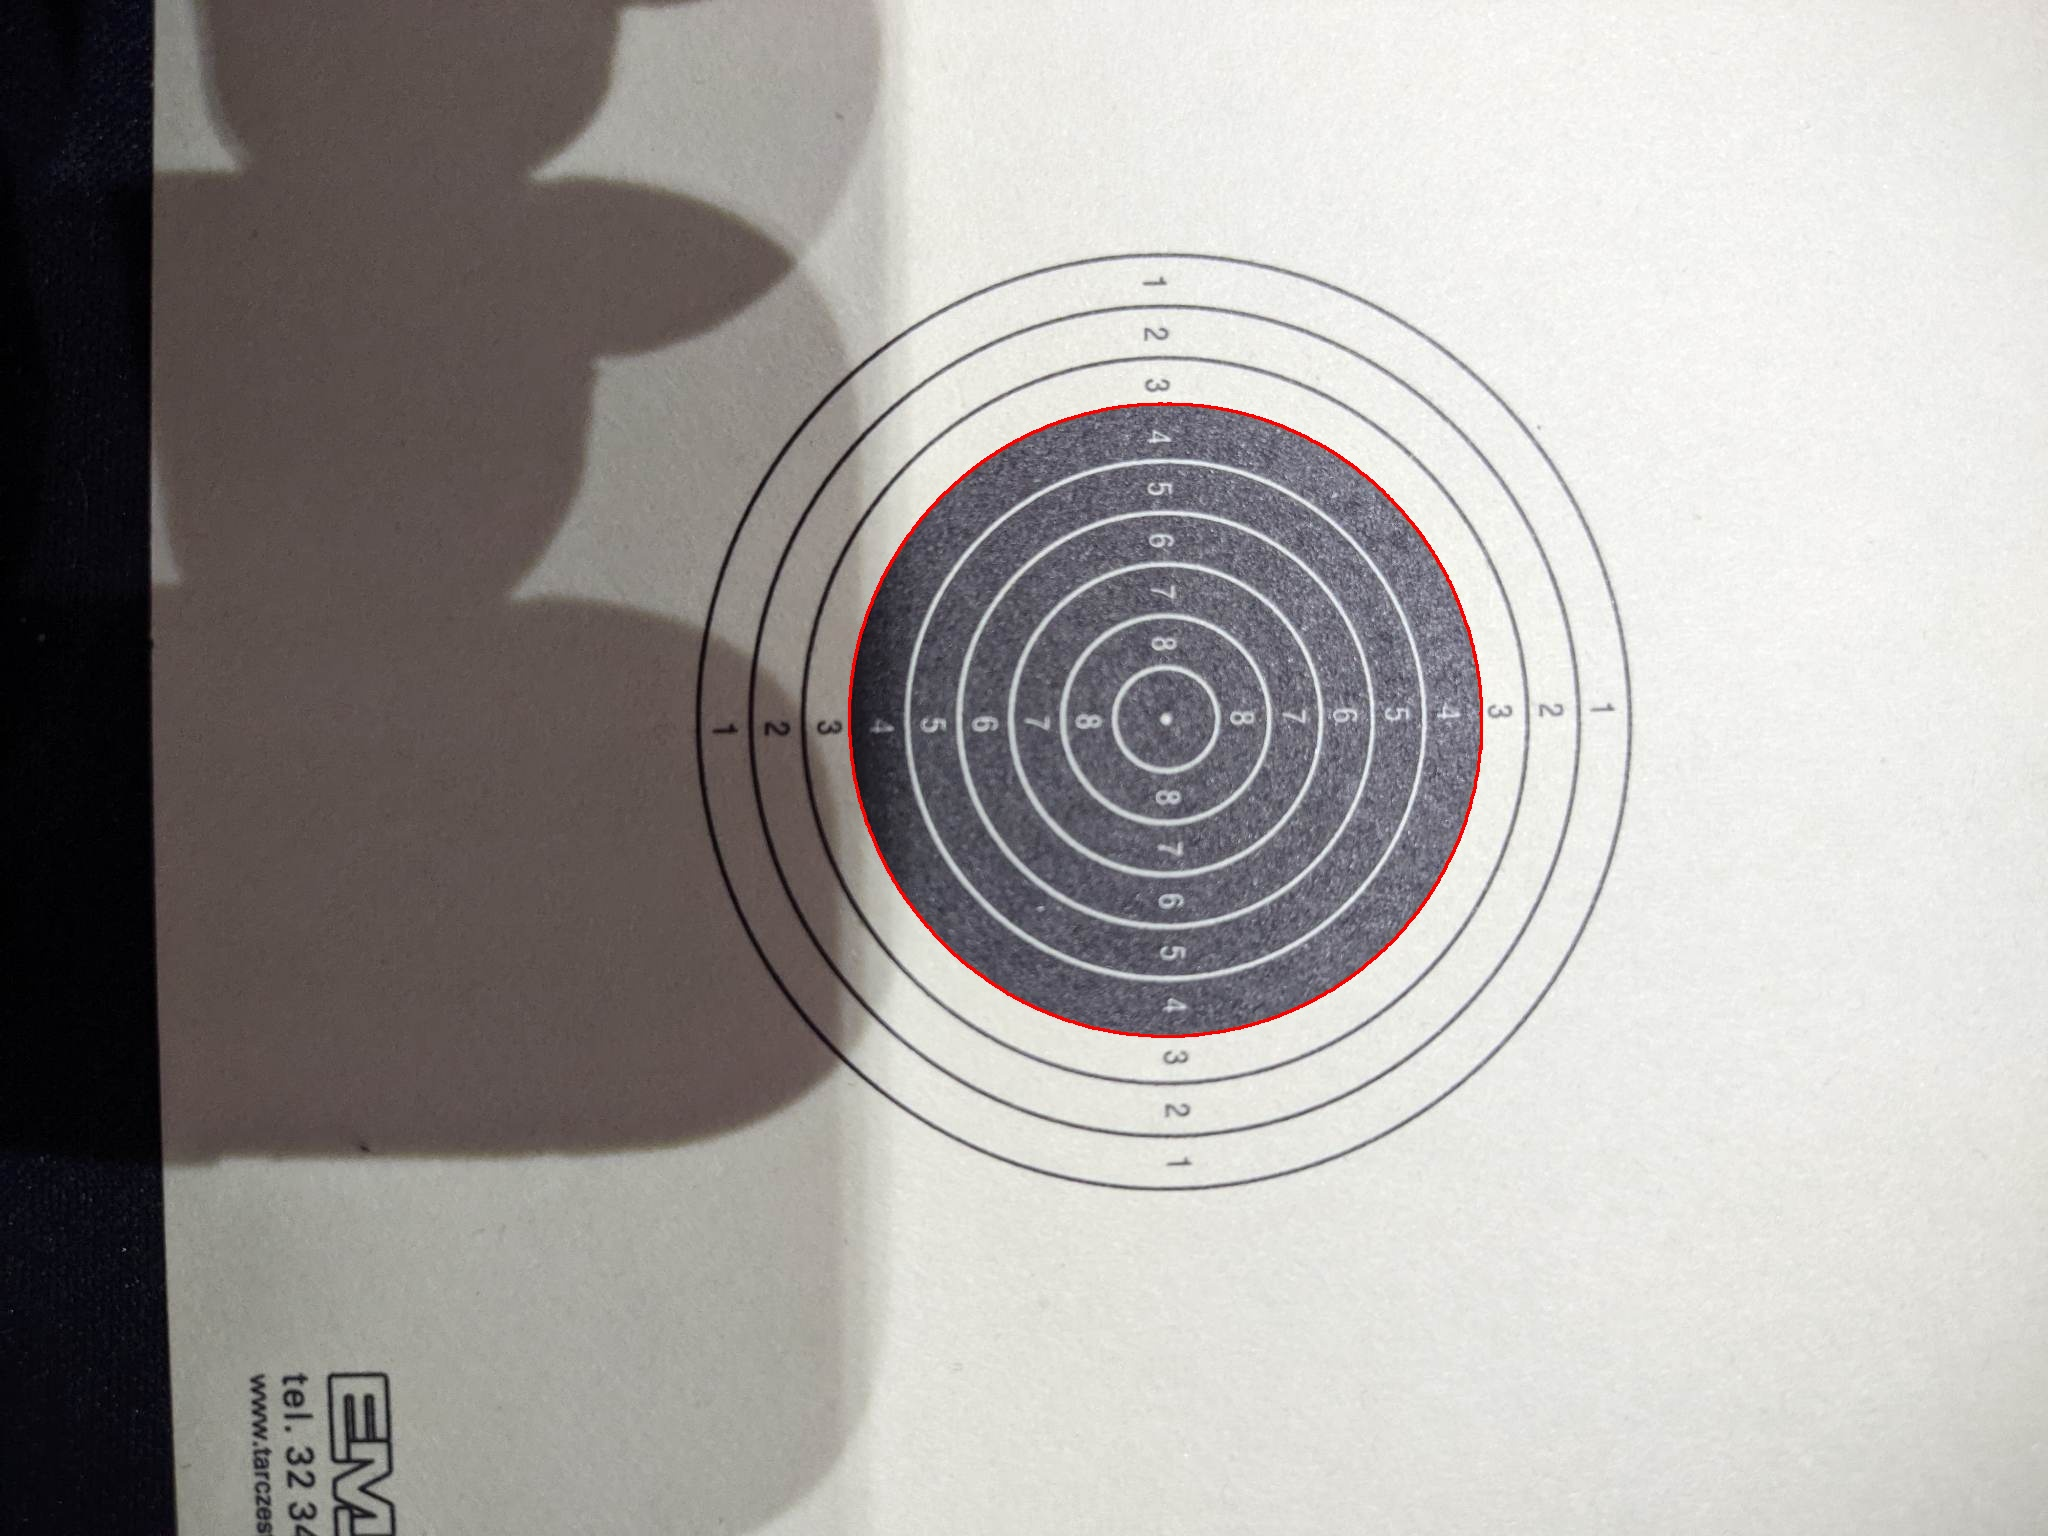
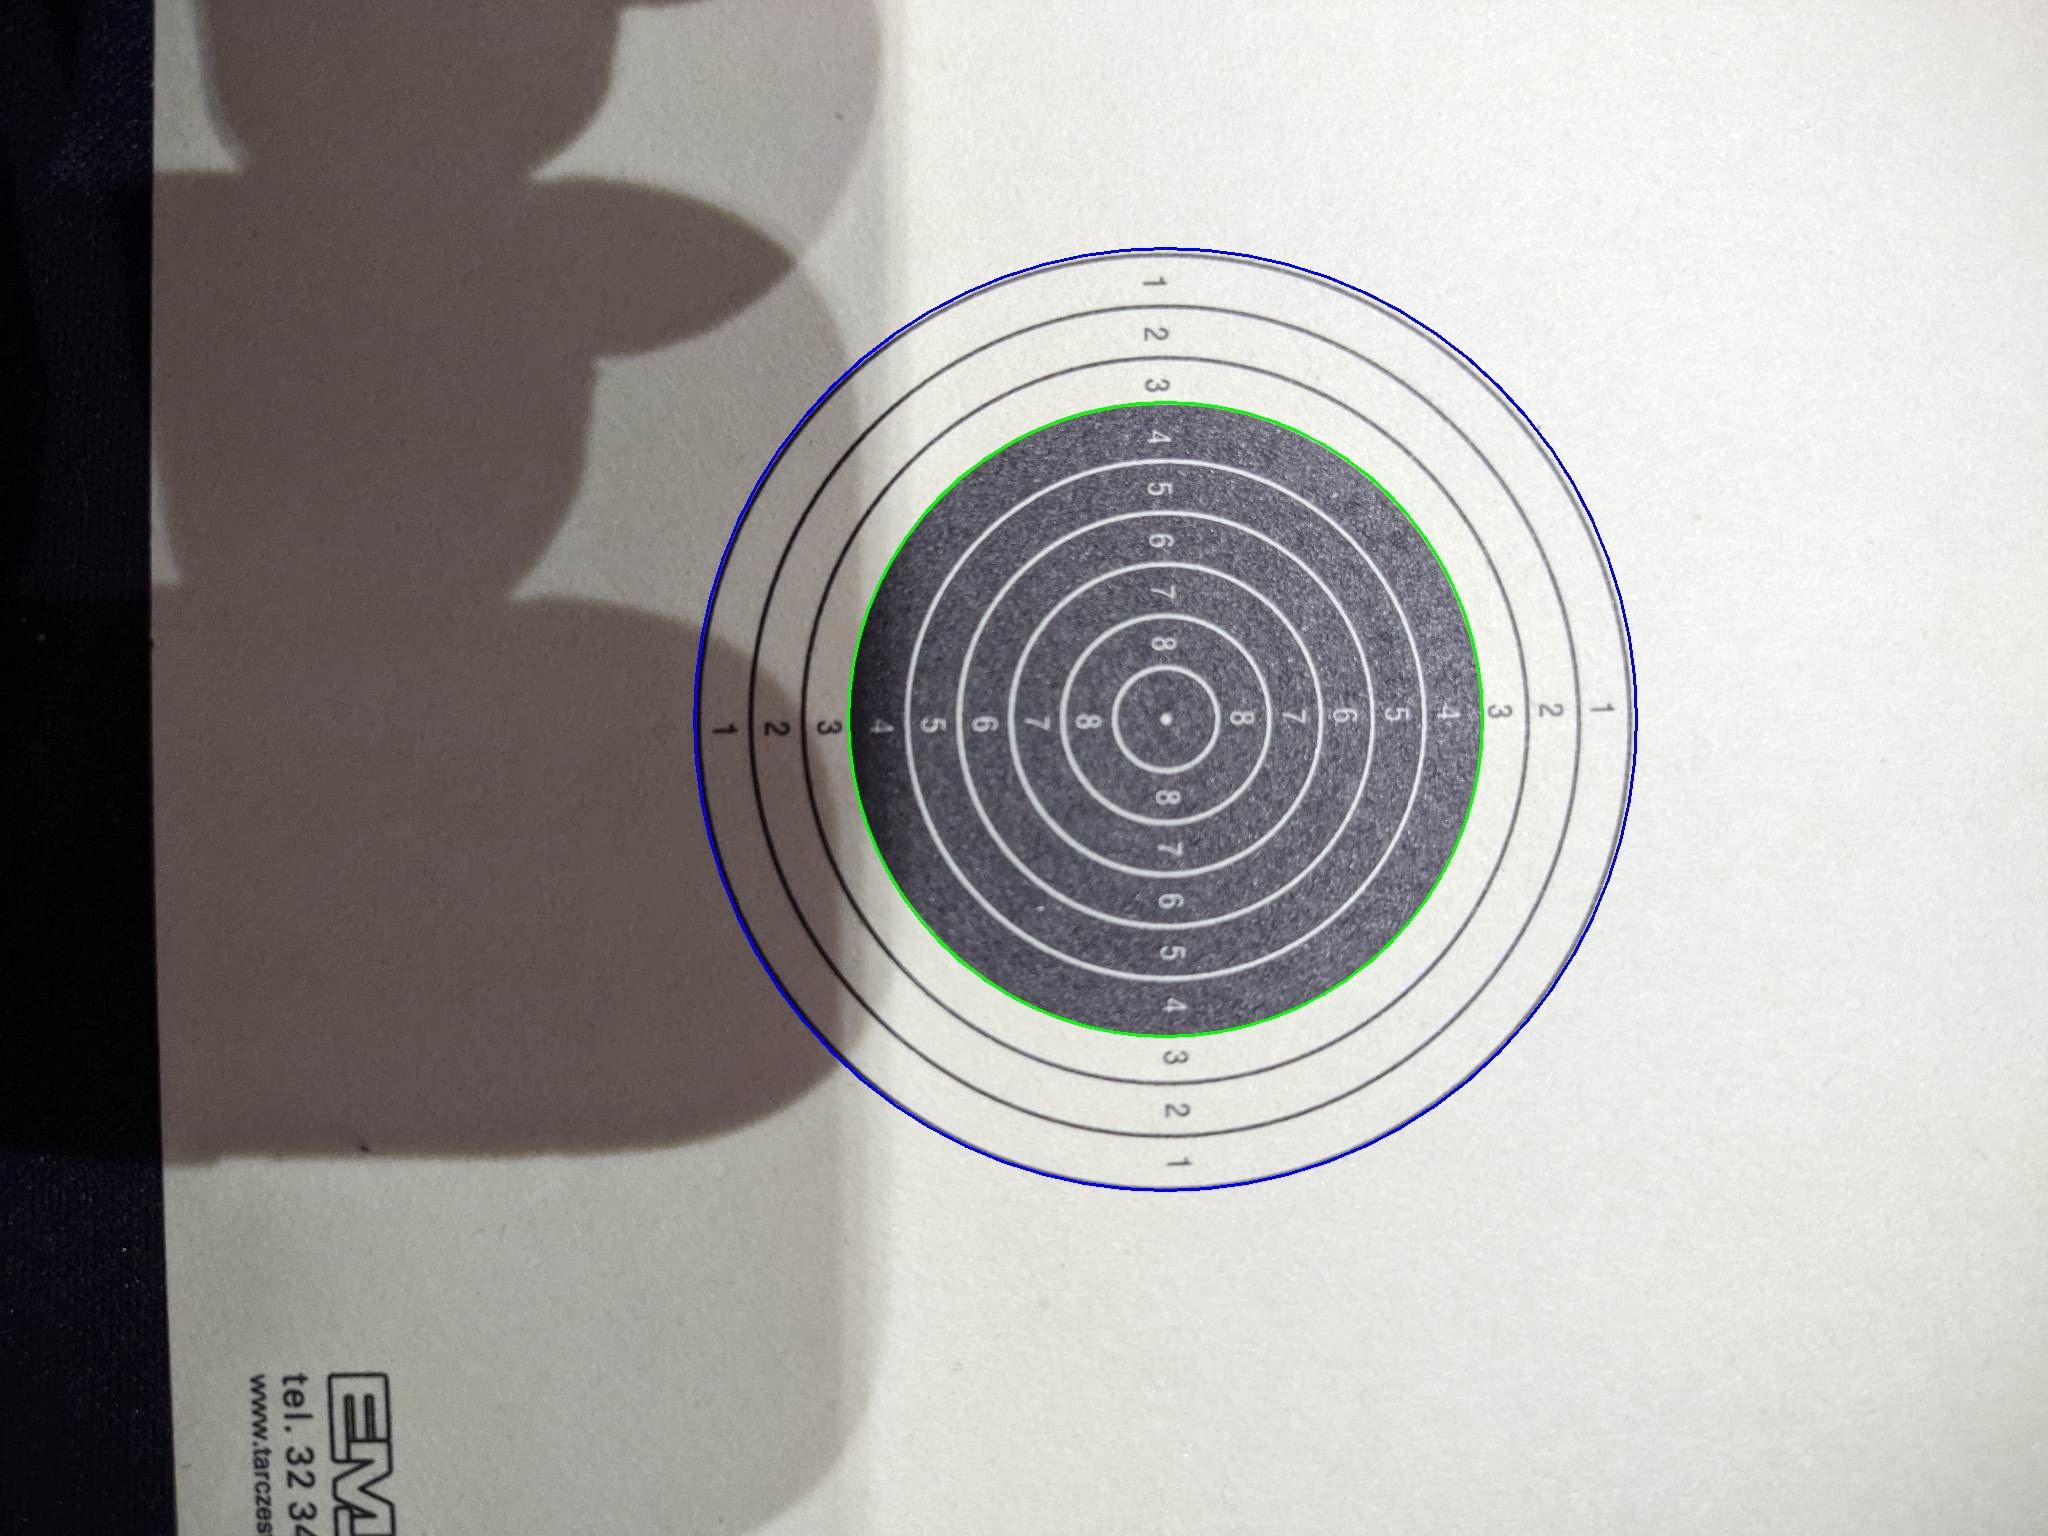
good bullseye detection, TargetAnalyzer.java added v2

diff --git a/src/TargetAnalyzer.java b/src/TargetAnalyzer.java
@@ -5,10 +5,20 @@ import org.opencv.imgproc.Imgproc;
 import java.util.ArrayList;
 import java.util.List;
 
+import static java.lang.Math.round;
+
 public class TargetAnalyzer {
     private String sourceDirectoryPath;
     private String destDirectoryPath;
     private String file;
+    int[] bullsEye = new int[3];
+
+    Point center;
+    float radius;
+    float outerRadius;
+    float shotRadius;
+
+
     public TargetAnalyzer(String file, String source, String dest){
         this.file = file;
         sourceDirectoryPath = source;
@@ -58,12 +68,27 @@ public class TargetAnalyzer {
 
             Mat output = new Mat();
             Scalar color = new Scalar(0, 0, 255);
-            if(filteredContours.size()>1)
-                Imgproc.drawContours(image, List.of(filteredContours.get(filteredContours.size()-1)) , -1, color, 2);
-            else
-                Imgproc.drawContours(image, filteredContours , -1, color, 2);
 
-            Imgcodecs.imwrite(destDirectoryPath + file, image);
+            center = new Point();
+            float[] radiuss = new float[1];
+
+
+            if(filteredContours.size()==0)
+                System.out.println("Circle not found " + file);
+            else{
+                if(filteredContours.size()>1)
+                    Imgproc.minEnclosingCircle(new MatOfPoint2f(filteredContours.get(filteredContours.size()-1).toArray()), center, radiuss);
+                else
+                    Imgproc.minEnclosingCircle(new MatOfPoint2f(filteredContours.get(0).toArray()), center, radiuss);
+
+                radius = radiuss[0];
+
+                Imgproc.circle(image, center, (int) radius, new Scalar(0, 255, 0), 2);
+
+                outerRadius = 22.75f*radius/15.25f-2;
+                shotRadius = 2.25f*radius/15.25f;
+            }
+            //Imgcodecs.imwrite(destDirectoryPath + file, image);
         } catch (Exception e) {
             throw new RuntimeException(e);
         }
